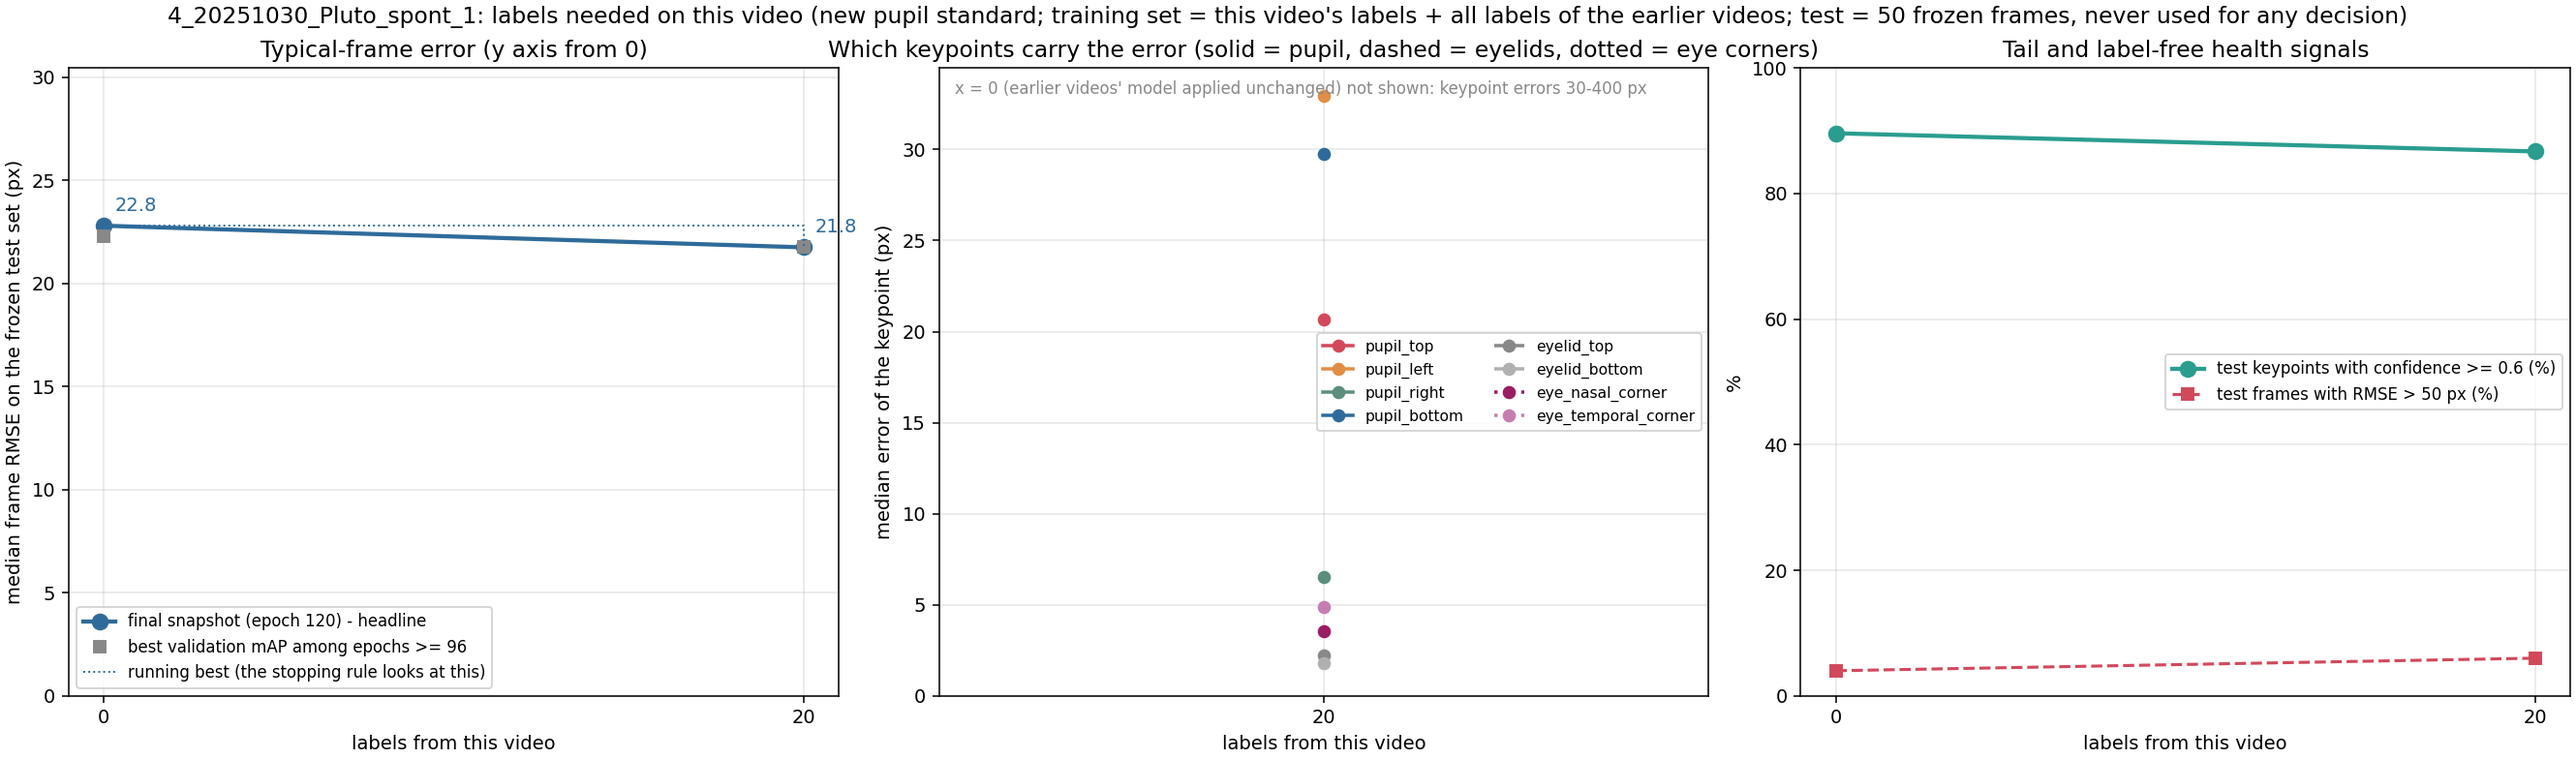
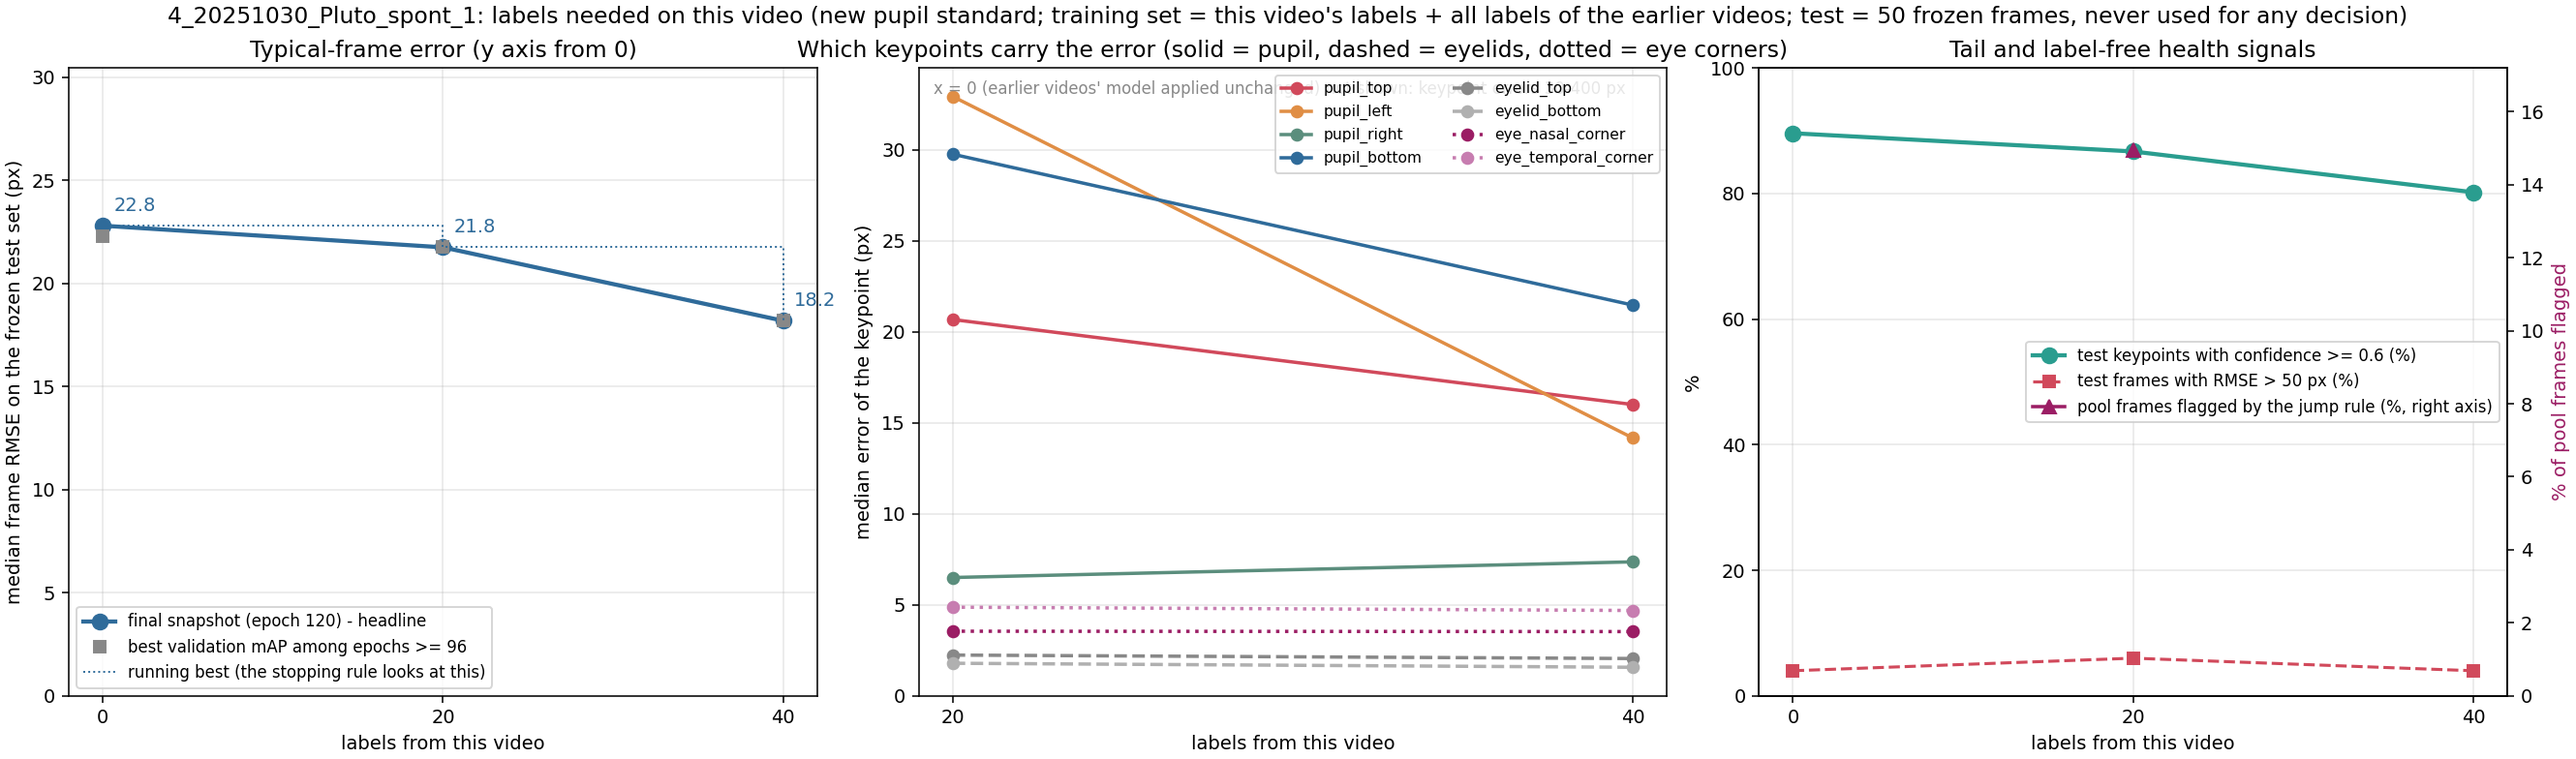
Video 4 (2025-10-30) step 2: 40 labels = 18.19 px

diff --git a/new_pupil_top_video_scaling/4_20251030_Pluto_spont_1/results/README.md b/new_pupil_top_video_scaling/4_20251030_Pluto_spont_1/results/README.md
@@ -10,6 +10,7 @@ k-means, later batches by jump rule + k-means. The video copy is `4_20251030_Plu
 |---|---|---|---|---|---|
 | 0 (video-3 step-3 model, 320 labels, applied unchanged) | 22.80 px | 44.5 | 4% | 90% | – |
 | 20 | 21.75 px | 44.0 | 6% | 87% | 8,548 (15.0%) |
+| 40 | 18.19 px | 35.3 | 4% | 80% | (pending: step-2 whole-video prediction) |
 
 Training set of step 1 (shuffle 511): 100 labels of video 0 + 100 of video 1 + 60 of video 2 + 60 of video 3 +
 20 of this video (340 frames); validation = the 20 val frames of this video.
